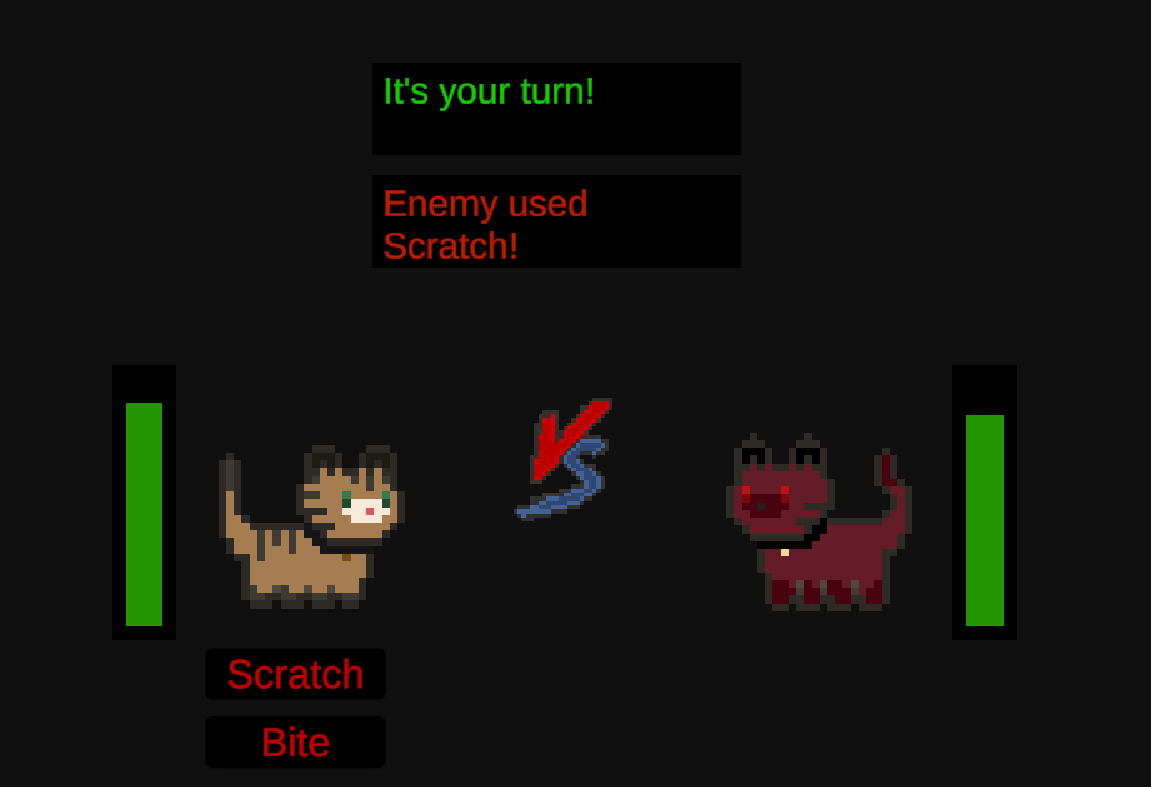
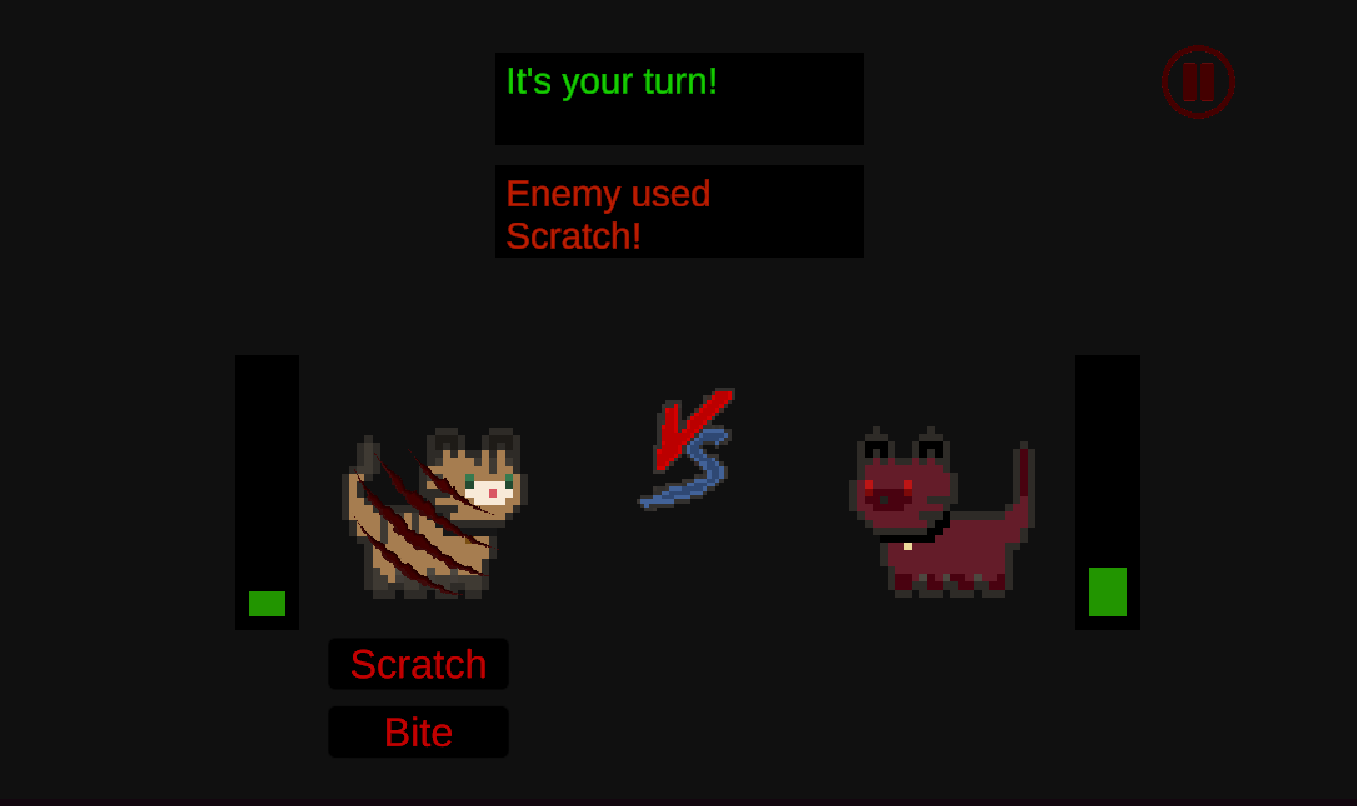
Update

diff --git a/CatRoom.html b/CatRoom.html
@@ -41,7 +41,7 @@
                 <img class="card-img-top" src="img/CatRoomCode.png" alt="Card image" style="width:100%">
                 <div class="card-body">
                     <h4 class="card-title">Code beschrijving</h4>
-                    <p class="card-text">Deze Draggableco mponent is één van mijn reusable Unity components.
+                    <p class="card-text">Deze Draggablecomponent is één van mijn reusable Unity components.
                         Het script maakt het mogelijk om objecten soepel te verslepen door de muispositie om te zetten naar wereldcoördinaten en een offset te gebruiken voor natuurlijk gedrag. 
                         Dit component kan zonder aanpassingen op elk object worden hergebruikt binnen verschillende scenes of projecten. <i class="bi bi-unity"></i></p>
                     <a href="img/CatRoomCode.png" class="btn">Bekijk code</a>
@@ -63,7 +63,7 @@
                 <img class="card-img-top" src="img/CatRoomFight.png" alt="Card image" style="width:100%">
                 <div class="card-body">
                       <h4 class="card-title">Fight</h4>
-                      <p class="card-text">De unique selling point is dat je ook in gevecht kan gaan met andere catten.
+                      <p class="card-text">Dit is hoe het gevecht met de "evil cat" eruit ziet.
                       </p>
                       <a href="img/CatRoomFight.png" class="btn">Bekijk foto:</a>
                 </div>